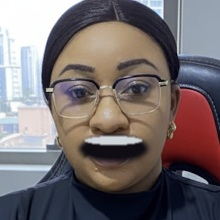
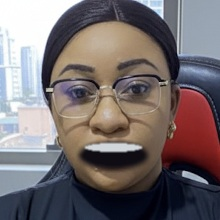
Fix viseme mouth position and add source marker
- MOUTH_CY 148 -> 155: opening was appearing too high (near nose),
  now aligns exactly on the lip line (verified with contact sheet sweep)
- Replace fragile mtime check with .source marker file: ensure_visemes()
  writes static/images/visemes/.source = avatar filename after generation;
  on startup it compares marker to current AVATAR_IMG.name and regenerates
  only when the avatar has changed — immune to git pull mtime resets
- Force-regenerated all 6 sprites from gen_2.png (CY=155)

Changed region(s): [[0.3545, 0.6, 0.6818, 0.7909]]

diff --git a/src/lipsync/viseme_generator.py b/src/lipsync/viseme_generator.py
@@ -17,9 +17,10 @@ Technique per frame
 All mouth coordinates were computed by OpenCV face + mouth detection against
 gen_2.png (1092 × 918 px).
 
-Auto-regeneration: if the source avatar image is newer than the existing
-sprites, ensure_visemes() will regenerate them automatically without
-requiring force=True.
+Auto-regeneration: ensure_visemes() writes a marker file (.source) beside
+the sprites recording which avatar image they were generated from.  On the
+next startup the marker is compared to AVATAR_IMG.name; a mismatch (or
+missing marker) triggers regeneration immediately — no mtime tricks needed.
 """
 
 import logging
@@ -38,7 +39,7 @@ CANVAS = 220          # output size (px)
 
 # Mouth centre on the 220 × 220 canvas (from OpenCV face + mouth detection)
 MOUTH_CX = 113
-MOUTH_CY = 148
+MOUTH_CY = 155
 MOUTH_HW = 38         # half-width
 NUM_VISEMES = 6        # v0 (closed) … v5 (wide open)
 MAX_OPEN_H  = 21       # max vertical half-height in px
@@ -55,21 +56,23 @@ def ensure_visemes(
     force: bool = False,
 ) -> list[str]:
     """
-    Generate viseme sprites if they don't already exist.
+    Generate viseme sprites, skipping only when they were previously built
+    from the same source image (tracked via a .source marker file).
+
     Returns a list of absolute file paths [v0.jpg … v5.jpg].
     """
     output_dir.mkdir(parents=True, exist_ok=True)
-    paths = [str(output_dir / f"v{i}.jpg") for i in range(NUM_VISEMES)]
+    paths  = [str(output_dir / f"v{i}.jpg") for i in range(NUM_VISEMES)]
+    marker = output_dir / ".source"
 
     if not force and all(Path(p).exists() for p in paths):
-        # Auto-regenerate if the source avatar is newer than the oldest sprite.
-        # This means swapping the avatar image automatically triggers fresh visemes.
-        src_mtime    = image_path.stat().st_mtime if image_path.exists() else 0
-        sprite_mtime = min(Path(p).stat().st_mtime for p in paths)
-        if src_mtime <= sprite_mtime:
+        # Sprites exist — only skip if they came from the same source file.
+        if marker.exists() and marker.read_text().strip() == image_path.name:
             logger.info("Viseme sprites already up-to-date — skipping generation.")
             return paths
-        logger.info("Avatar image is newer than sprites — regenerating.")
+        logger.info(
+            f"Avatar source changed to {image_path.name} — regenerating sprites."
+        )
 
     logger.info(f"Generating {NUM_VISEMES} viseme sprites from {image_path} …")
 
@@ -89,6 +92,9 @@ def ensure_visemes(
         cv2.imwrite(paths[i], frame, [cv2.IMWRITE_JPEG_QUALITY, 94])
         logger.info(f"  v{i}.jpg  (open_h={open_h}px)")
 
+    # Write source marker so future startups know which avatar these came from.
+    marker = output_dir / ".source"
+    marker.write_text(image_path.name)
     logger.info("Viseme generation complete.")
     return paths
 
